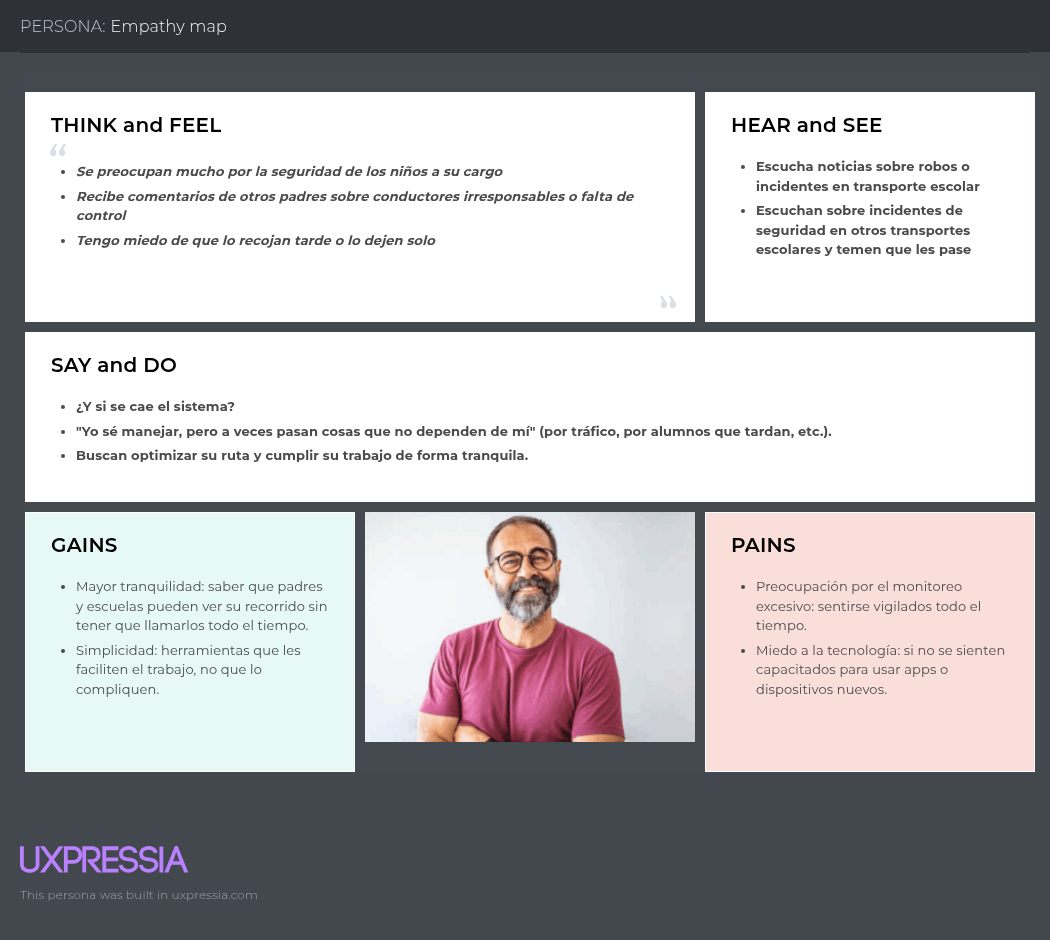
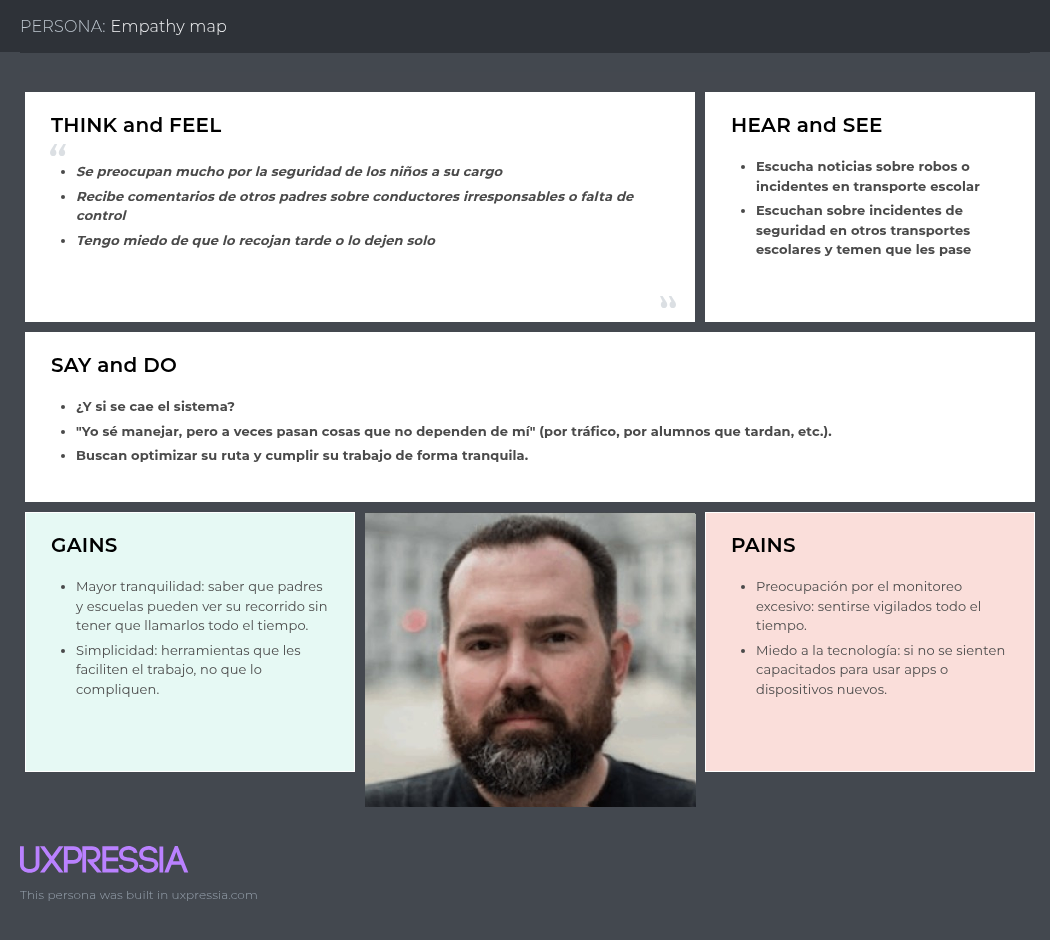
fix: update empathy mapping user photos

Changed region(s): [[0.3352, 0.5245, 0.6705, 0.8638]]

diff --git a/chapter02.md b/chapter02.md
@@ -410,10 +410,10 @@ En este apartado se presenta el Empathy Mapping, una herramienta que utilizamos 
 
 Segmento: Padre
 
-![EmpathyMappingPadre](<assets/chapter2/EmpathyMapping(Padre).png>)
+![EmpathyMappingPadre](assets/chapter2/EmpathyMapping(Padre).png)
 
 Segmento: Conductor
-![EmpathyMappingPadre](<assets/chapter2/Empathy%20map(Conductores).png>)
+![EmpathyMappingPadre](assets/chapter2/Empathy%20map(Conductores).png)
 
 ### 2.3.5. As-is Scenario Mapping.
 
